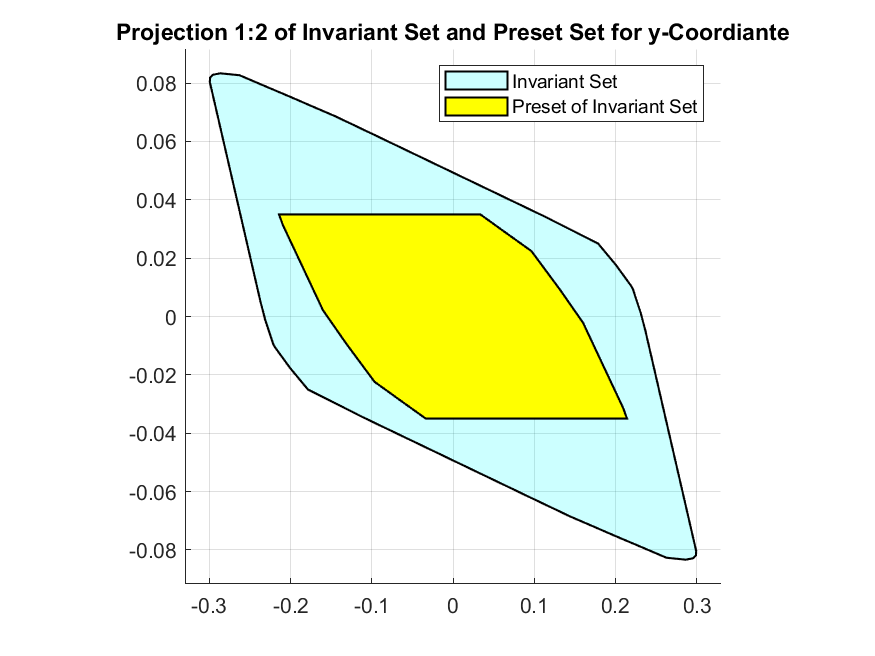
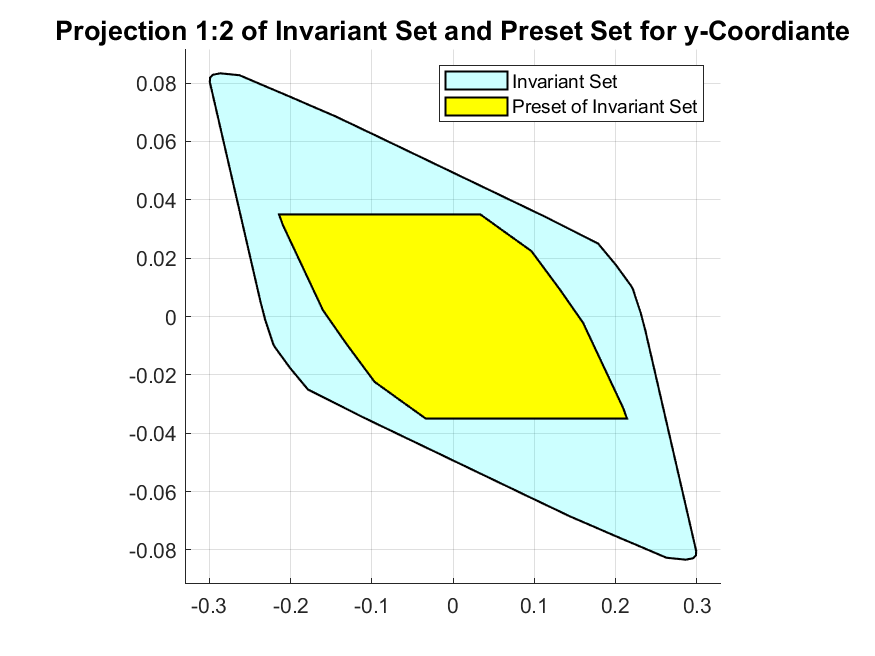
Plots for Deliverable 3-2

Changed region(s): [[0.0617, 0.0305, 0.9874, 0.061]]

diff --git a/src/Deliverable3_2.m b/src/Deliverable3_2.m
@@ -22,8 +22,8 @@ mpc.yaw = MPC_Control_yaw(sys_yaw, Ts);
 %%%%%%%%%% Simulations (Linear) %%%%%%%%%%%%%%%
 %% Initializations
 x0 = [0;0;0;0];y0 = [0;0;0;0];z0 = [0;0];yaw0 = [0;0];
-xref = 1; yref = 1; zref = 2; yawref = pi/4;
-simTime = 3;
+xref = -2; yref = -2; zref = -2; yawref = pi/4;
+simTime = 10;
 Ax = sys_x_discrete.A; Bx = sys_x_discrete.B;
 Ay = sys_y_discrete.A; By = sys_y_discrete.B;
 Az = sys_z_discrete.A; Bz = sys_z_discrete.B;
@@ -44,16 +44,44 @@ for k = 1:simTime/Ts
     xlist = [xlist,xNext];ylist = [ylist,yNext];zlist = [zlist,zNext];yawlist = [yawlist,yawNext];
 end
 %% Plots
-figure
-plot(linspace(1,simTime,simTime/Ts),xlist(4,:))
-ylabel('X position')
-figure
-plot(linspace(1,simTime,simTime/Ts),ylist(4,:))
-ylabel('Y position')
-figure
-plot(linspace(1,simTime,simTime/Ts),zlist(2,:))
-ylabel('Z position')
-figure
-plot(linspace(1,simTime,simTime/Ts),yawlist(2,:))
-ylabel('Yaw')
+
+
+subplot(2,2,1) , hold on, grid on
+plot(linspace(0,simTime,simTime/Ts),xlist(4,:), 'DisplayName', 'Case 1', ...
+    'LineWidth', 2)
+ylabel('X position in [m]')
+xlabel('Time in [s]')
+title('Deliv. 3-2 X-Position over Time')
+axis padded
+legend show
+
+subplot(2,2,2), hold on, grid on
+plot(linspace(0,simTime,simTime/Ts),ylist(4,:), 'DisplayName', 'Case 1', ...
+    'LineWidth', 2)
+ylabel('Y position in [m]')
+xlabel('Time in [s]')
+title('Deliv. 3-2 Y-Position over Time')
+axis padded
+legend show
+
+subplot(2,2,3), hold on, grid on
+plot(linspace(0,simTime,simTime/Ts),zlist(2,:), 'DisplayName', 'Case 1', ...
+    'LineWidth', 2)
+ylabel('Z position in [m]')
+xlabel('Time in [s]')
+title('Deliv. 3-2 Z-Position over Time')
+axis padded
+legend show
+
+subplot(2,2,4), hold on, grid on
+plot(linspace(0,simTime,simTime/Ts),rad2deg(yawlist(2,:)), 'DisplayName', 'Case 1', ...
+    'LineWidth', 2)
+ylabel('Yaw in Degree')
+xlabel('Time in [s]')
+title('Deliv. 3-2 Yaw-Angle over Time')
+axis padded
+legend show
+legend('Location', 'southeast')
+
+saveas(gcf, 'Deliverable3_2_case1.png')
 

diff --git a/src/Terminal_Invariant.m b/src/Terminal_Invariant.m
@@ -31,9 +31,10 @@ if strcmp(name,'z') == 1 || strcmp(name,'yaw') == 1
     figure , hold on, grid on
     preW.projection(1:2).plot('color','c','alpha', 0.2);
     W.projection(1:2).plot('color', 'y','alpha', 1);
-    % Intersect.projection(1:2).plot('color','r','alpha', 0.5);
+
     axis square
-    title(['Invariant Set and Preset Set for ', name, '-Coordiante'])
+    title(['Invariant Set and Preset Set for ', name, '-Coordiante'], ...
+        'FontSize', 13)
     legend('Invariant Set', 'Preset of Invariant Set')
     hold off
     saveas(gcf, ['Deliverable3_1_TS_', name, '.png']) 
@@ -44,7 +45,8 @@ else
     preW.projection(1:2).plot('color','c','alpha', 0.2);
     W.projection(1:2).plot('color', 'y','alpha', 1);
     axis square
-    title(['Projection 1:2 of Invariant Set and Preset Set for ', name, '-Coordiante'])
+    title(['Projection 1:2 of Invariant Set and Preset Set for ', name, ...
+        '-Coordiante'], 'FontSize', 13)
     legend('Invariant Set', 'Preset of Invariant Set')
     hold off
     saveas(gcf, ['Deliverable3_1_TS12_', name, '.png'])
@@ -53,7 +55,8 @@ else
     preW.projection(2:3).plot('color','c','alpha', 0.2);
     W.projection(2:3).plot('color', 'y','alpha', 1);
     axis square
-    title(['Projection 2:3 of Invariant Set and Preset Set for ', name, '-Coordiante'])
+    title(['Projection 2:3 of Invariant Set and Preset Set for ', name, ...
+        '-Coordiante'], 'FontSize', 13)
     hold off
     saveas(gcf, ['Deliverable3_1_TS23_', name, '.png'])
     
@@ -61,7 +64,8 @@ else
     preW.projection(3:4).plot('color','c','alpha', 0.2);
     W.projection(3:4).plot('color', 'y','alpha', 1);
     axis square
-    title(['Projection 3:4 of Invariant Set and Preset Set for ', name, '-Coordiante'])
+    title(['Projection 3:4 of Invariant Set and Preset Set for ', name, ...
+        '-Coordiante'], 'FontSize', 13)
     hold off
     saveas(gcf, ['Deliverable3_1_TS34_', name, '.png'])
 end

diff --git a/src/Deliverable3_1.m b/src/Deliverable3_1.m
@@ -114,24 +114,28 @@ end
 subplot(2,2,1)
 plot(linspace(0,simTime,simTime/Ts),xlist(4,:), 'DisplayName', 'Case 2', ...
     'LineWidth', 2)
+axis padded
 legend show
 
 
 subplot(2,2,2)
 plot(linspace(0,simTime,simTime/Ts),ylist(4,:), 'DisplayName', 'Case 2', ...
     'LineWidth', 2)
+axis padded
 legend show
 
 
 subplot(2,2,3)
 plot(linspace(0,simTime,simTime/Ts),zlist(2,:), 'DisplayName', 'Case 2', ...
     'LineWidth', 2)
+axis padded
 legend show
 
 
 subplot(2,2,4)
 plot(linspace(0,simTime,simTime/Ts),rad2deg(yawlist(2,:)), 'DisplayName', 'Case 2', ...
     'LineWidth', 2)
+axis padded
 legend show
 
 saveas(gcf, 'Deliverable3_1_case12.png')
